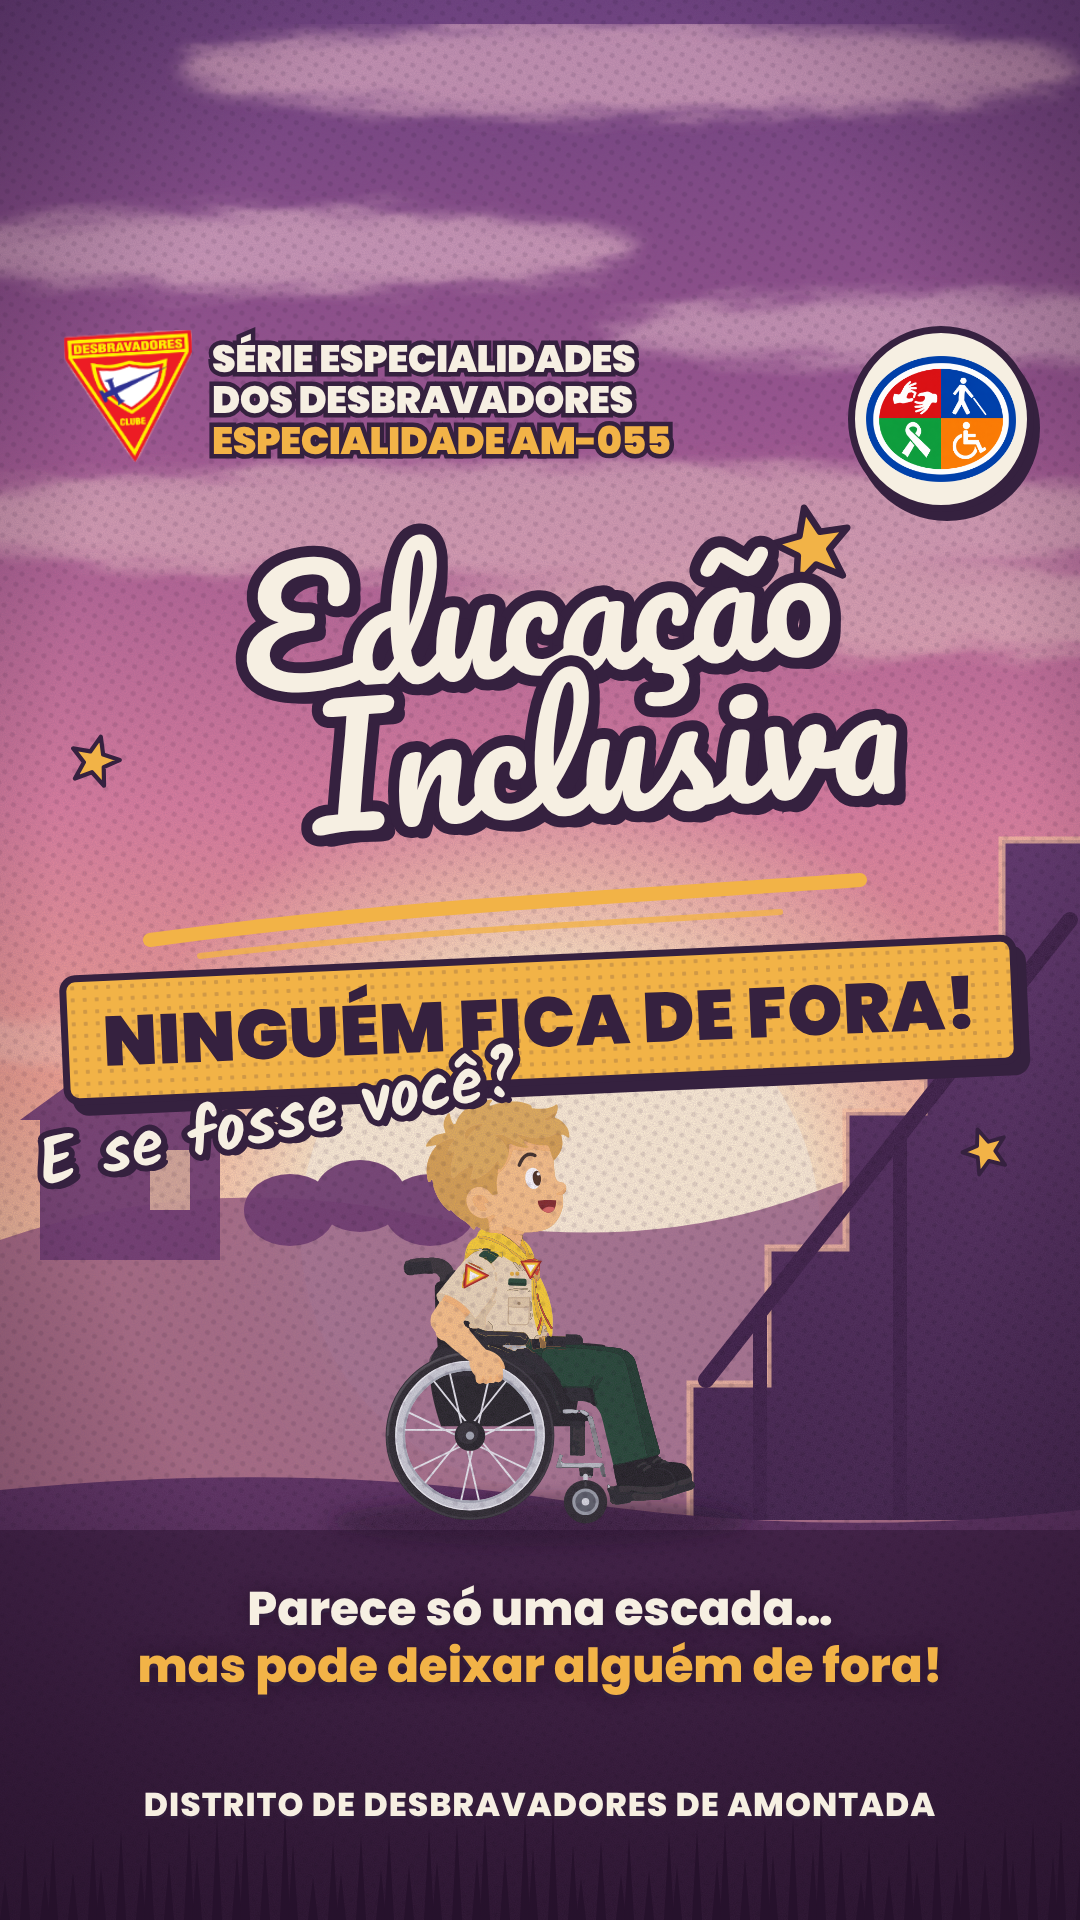
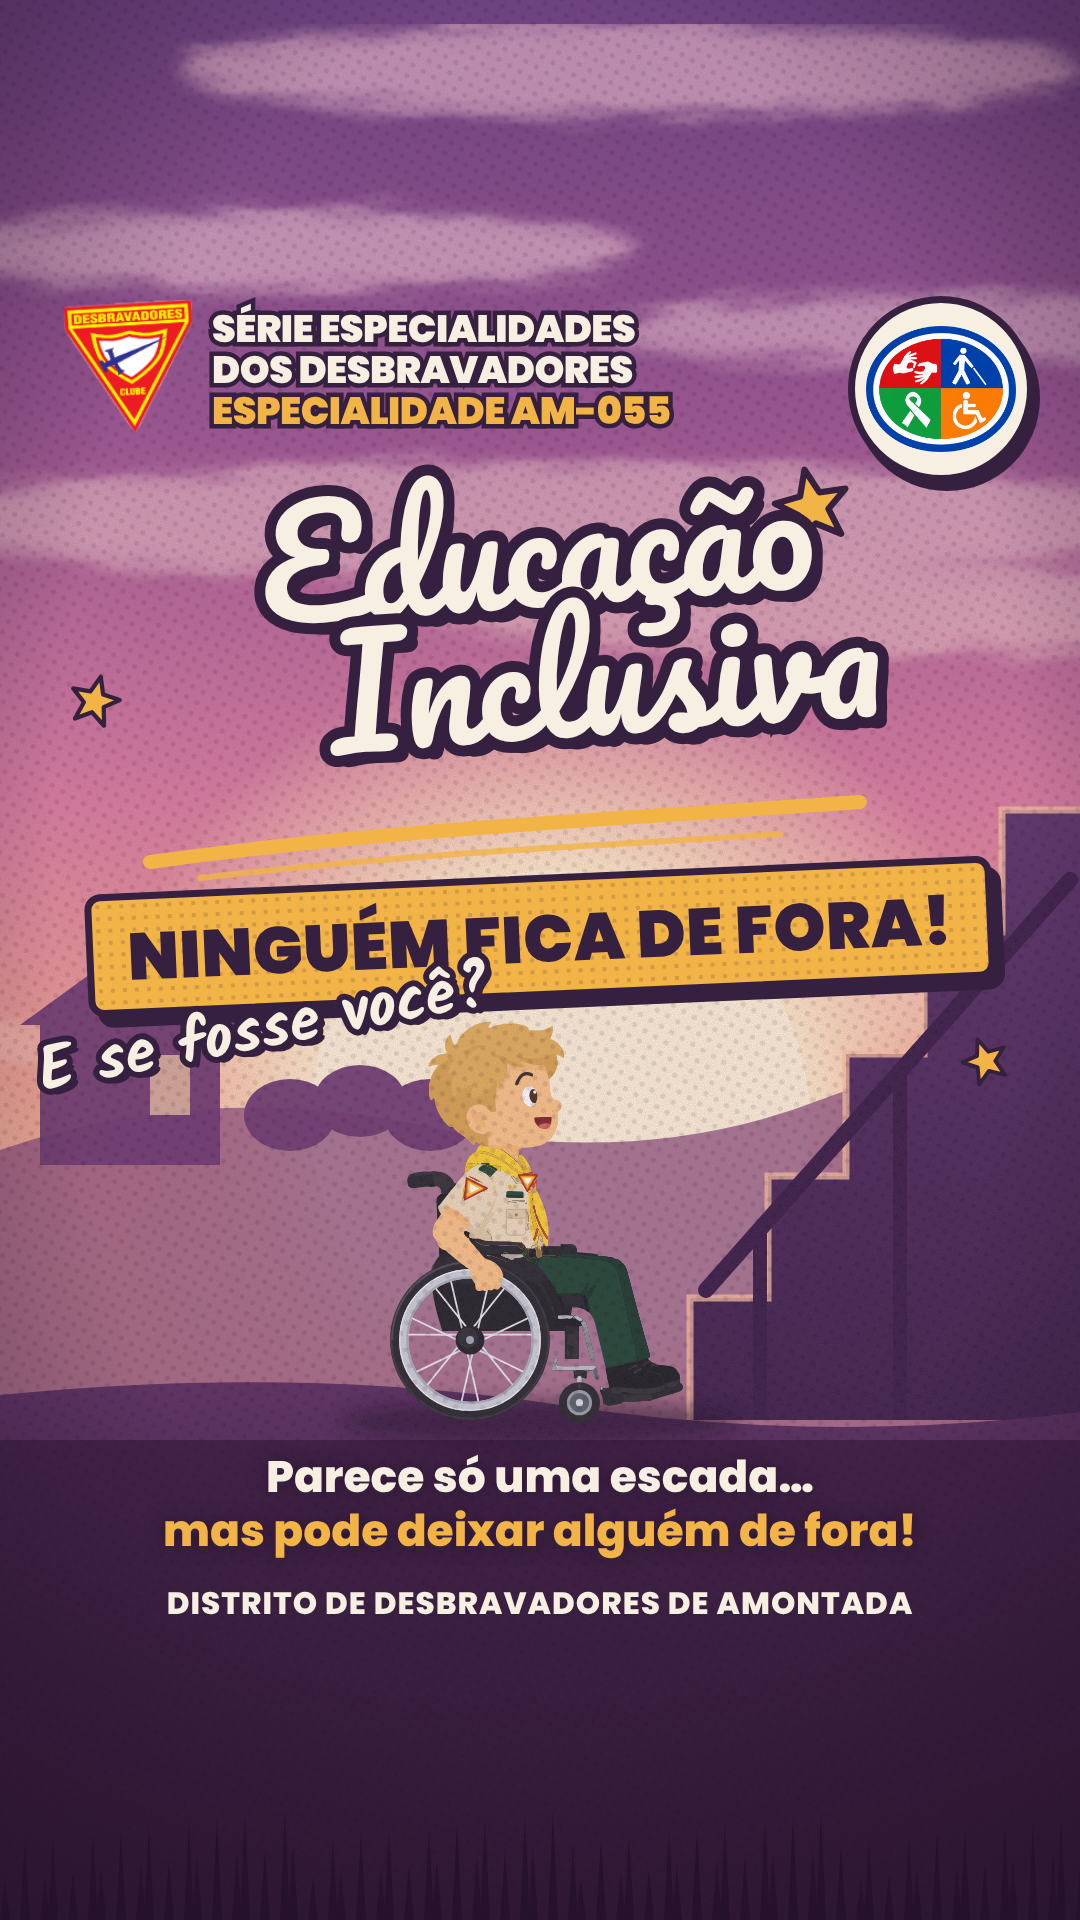
Capa do Instagram (Educação Inclusiva): essencial centralizado na faixa 4:5, recorte do perfil
Claude-Session: https://claude.ai/code/session_01LXZQHYtdrfPNenh7Cr42Jh

diff --git a/EDUCACAO_INCLUSIVA_WORK/remotion/src/full/CoverIG.tsx b/EDUCACAO_INCLUSIVA_WORK/remotion/src/full/CoverIG.tsx
@@ -67,29 +67,29 @@ export const CoverIG: React.FC = () => {
           {bands.map(([x, y, w, hh, c, o], i) => <ellipse key={i} cx={x + w / 2} cy={y} rx={w / 2} ry={hh} fill={c} opacity={o} filter="url(#soft)" />)}
         </g>
         {/* sol enorme atrás do herói */}
-        <circle cx={560} cy={1230} r={470} fill="url(#igsun)" />
-        <circle cx={560} cy={1230} r={260} fill="#FFF1D6" opacity={0.96} />
+        <circle cx={560} cy={1120} r={470} fill="url(#igsun)" />
+        <circle cx={560} cy={1120} r={250} fill="#FFF1D6" opacity={0.96} />
         {/* morros e a sede do clube ao longe */}
-        <path d="M0 1240 Q200 1170 420 1215 T820 1190 T1080 1210 L1080 1920 L0 1920 Z" fill="#8C4C78" opacity={0.75} />
-        <g fill="#6E3A6E" opacity={0.95}>
+        <path d="M0 1150 Q200 1080 420 1125 T820 1100 T1080 1120 L1080 1920 L0 1920 Z" fill="#8C4C78" opacity={0.75} />
+        <g fill="#6E3A6E" opacity={0.95} transform="translate(0 -95)">
           <path d="M40 1260 L40 1120 L20 1120 L130 1040 L240 1120 L220 1120 L220 1260 Z" />
           <rect x={150} y={1150} width={40} height={60} fill="#FFD9A8" opacity={0.7} />
           {[0, 1, 2].map((i) => <ellipse key={i} cx={290 + i * 70} cy={1210 - (i % 2) * 14} rx={46} ry={36} />)}
         </g>
         {/* a barreira: escada gigante em silhueta, atrás do herói */}
         {(() => {
-          const pts = Array.from({ length: 5 }, (_, i) => `L${690 + i * 78} ${1520 - (i + 1) * 136} L${690 + (i + 1) * 78} ${1520 - (i + 1) * 136}`).join(' ');
+          const pts = Array.from({ length: 5 }, (_, i) => `L${690 + i * 78} ${1420 - (i + 1) * 122} L${690 + (i + 1) * 78} ${1420 - (i + 1) * 122}`).join(' ');
           return <g>
-            <path d={`M690 1520 ${pts} L1080 840 L1080 1520 Z`} fill="url(#stairsil)" />
-            <path d={`M690 1520 ${pts} L1080 840`} fill="none" stroke="#FFC6A0" strokeWidth={7} opacity={0.75} />
-            <path d="M706 1380 L1070 920" stroke="#3A1E44" strokeWidth={16} strokeLinecap="round" /><path d="M760 1520 L760 1310 M900 1520 L900 1135" stroke="#3A1E44" strokeWidth={14} />
+            <path d={`M690 1420 ${pts} L1080 810 L1080 1420 Z`} fill="url(#stairsil)" />
+            <path d={`M690 1420 ${pts} L1080 810`} fill="none" stroke="#FFC6A0" strokeWidth={7} opacity={0.75} />
+            <path d="M706 1290 L1070 880" stroke="#3A1E44" strokeWidth={16} strokeLinecap="round" /><path d="M760 1420 L760 1225 M900 1420 L900 1065" stroke="#3A1E44" strokeWidth={14} />
           </g>;
         })()}
         {/* chão */}
-        <path d="M0 1490 Q300 1460 560 1500 T1080 1510 L1080 1920 L0 1920 Z" fill="url(#igground)" />
+        <path d="M0 1395 Q300 1365 560 1405 T1080 1412 L1080 1920 L0 1920 Z" fill="url(#igground)" />
         {/* herói: Theo diante da barreira */}
-        <ellipse cx={540} cy={1522} rx={210} ry={24} fill="#1E0D22" opacity={0.5} filter="url(#soft)" />
-        <Theo pose={theoRoll(t, () => 470, { scale: 0.38, y: 1520, ex: exT, head: -9 })} id="igt" />
+        <ellipse cx={540} cy={1422} rx={200} ry={22} fill="#1E0D22" opacity={0.5} filter="url(#soft)" />
+        <Theo pose={theoRoll(t, () => 470, { scale: 0.36, y: 1420, ex: exT, head: -9 })} id="igt" />
         {/* retícula e granulação por cima de tudo, como na referência */}
         <rect width={1080} height={1920} fill="url(#dots)" opacity={0.12} style={{ mixBlendMode: 'multiply' }} />
         <rect width={1080} height={1920} filter="url(#grain)" opacity={0.5} />
@@ -99,44 +99,44 @@ export const CoverIG: React.FC = () => {
         </g>
         {/* vinheta */}
         <rect width={1080} height={1920} fill="url(#vig)" />
-        <rect y={1530} width={1080} height={390} fill="#2A1430" opacity={0.5} />
+        <rect y={1440} width={1080} height={480} fill="#2A1430" opacity={0.5} />
       </svg>
 
       {/* cabeçalho: logo do clube + série + código; selo da especialidade */}
-      <Img src={staticFile('logo_desbravadores.png')} style={{ position: 'absolute', left: 64, top: 330, width: 128, height: 132 }} />
-      <div style={{ position: 'absolute', left: 212, top: 338, fontFamily: 'Poppins', fontWeight: 900, fontSize: 38, lineHeight: 1.08, color: CREAM, ...outline(9), letterSpacing: -0.5 }}>
+      <Img src={staticFile('logo_desbravadores.png')} style={{ position: 'absolute', left: 64, top: 300, width: 128, height: 132 }} />
+      <div style={{ position: 'absolute', left: 212, top: 308, fontFamily: 'Poppins', fontWeight: 900, fontSize: 38, lineHeight: 1.08, color: CREAM, ...outline(9), letterSpacing: -0.5 }}>
         SÉRIE ESPECIALIDADES<br />DOS DESBRAVADORES<br /><span style={{ color: GOLD }}>ESPECIALIDADE AM-055</span>
       </div>
-      <div style={{ position: 'absolute', left: 848, top: 326, width: 186, height: 186, borderRadius: 93, background: CREAM, border: `7px solid ${INK}`, boxShadow: `6px 9px 0 ${INK}`, display: 'flex', alignItems: 'center', justifyContent: 'center' }}>
+      <div style={{ position: 'absolute', left: 848, top: 296, width: 186, height: 186, borderRadius: 93, background: CREAM, border: `7px solid ${INK}`, boxShadow: `6px 9px 0 ${INK}`, display: 'flex', alignItems: 'center', justifyContent: 'center' }}>
         <Img src={staticFile('emblema_recortado.png')} style={{ width: 150, height: 130, objectFit: 'contain' }} />
       </div>
-      <Star x={812} y={545} s={0.95} r={-12} />
-      <Star x={95} y={760} s={0.6} r={14} />
-      <Star x={985} y={1150} s={0.55} r={-20} />
+      <Star x={812} y={505} s={0.9} r={-12} />
+      <Star x={95} y={700} s={0.6} r={14} />
+      <Star x={985} y={1060} s={0.55} r={-20} />
 
       {/* título manuscrito */}
-      <div style={{ position: 'absolute', left: 0, right: 0, top: 520, textAlign: 'center', transform: 'rotate(-4deg)' }}>
-        <div style={{ fontFamily: 'Script', fontSize: 158, lineHeight: 1.12, color: CREAM, ...outline(22), textShadow: `10px 12px 0 ${INK}` }}>Educação</div>
-        <div style={{ fontFamily: 'Script', fontSize: 158, lineHeight: 1.0, color: CREAM, ...outline(22), textShadow: `10px 12px 0 ${INK}`, marginTop: -26, marginLeft: 120 }}>Inclusiva</div>
+      <div style={{ position: 'absolute', left: 0, right: 0, top: 462, textAlign: 'center', transform: 'rotate(-4deg)' }}>
+        <div style={{ fontFamily: 'Script', fontSize: 148, lineHeight: 1.12, color: CREAM, ...outline(22), textShadow: `10px 12px 0 ${INK}` }}>Educação</div>
+        <div style={{ fontFamily: 'Script', fontSize: 148, lineHeight: 1.0, color: CREAM, ...outline(22), textShadow: `10px 12px 0 ${INK}`, marginTop: -26, marginLeft: 120 }}>Inclusiva</div>
       </div>
       {/* pincelada sob o título */}
       <svg width={1080} height={1920} style={{ position: 'absolute', inset: 0 }}>
-        <path d="M150 940 C380 908 600 898 860 880" stroke={GOLD} strokeWidth={14} strokeLinecap="round" fill="none" />
-        <path d="M200 956 C420 930 600 924 780 912" stroke={GOLD} strokeWidth={6} strokeLinecap="round" fill="none" opacity={0.8} />
+        <path d="M150 862 C380 830 600 820 860 802" stroke={GOLD} strokeWidth={14} strokeLinecap="round" fill="none" />
+        <path d="M200 878 C420 852 600 846 780 834" stroke={GOLD} strokeWidth={6} strokeLinecap="round" fill="none" opacity={0.8} />
       </svg>
       {/* faixa amarela */}
-      <div style={{ position: 'absolute', left: 40, right: 40, top: 955, transform: 'rotate(-2.5deg)', display: 'flex', justifyContent: 'center' }}>
-        <div style={{ position: 'relative', fontFamily: 'Poppins', fontWeight: 900, fontSize: 70, letterSpacing: 0.5, color: INK, background: GOLD, padding: '8px 34px 2px', border: `7px solid ${INK}`, borderRadius: 16, boxShadow: `9px 11px 0 ${INK}`,
+      <div style={{ position: 'absolute', left: 40, right: 40, top: 875, transform: 'rotate(-2.5deg)', display: 'flex', justifyContent: 'center' }}>
+        <div style={{ position: 'relative', fontFamily: 'Poppins', fontWeight: 900, fontSize: 66, letterSpacing: 0.5, color: INK, background: GOLD, padding: '8px 34px 2px', border: `7px solid ${INK}`, borderRadius: 16, boxShadow: `9px 11px 0 ${INK}`,
           backgroundImage: 'radial-gradient(rgba(53,33,63,.18) 2px, transparent 2.5px)', backgroundSize: '12px 12px' }}>NINGUÉM FICA DE FORA!</div>
       </div>
       {/* exclamação manuscrita */}
-      <div style={{ position: 'absolute', left: 36, top: 1070, transform: 'rotate(-11deg)', fontFamily: 'Hand', fontSize: 66, color: CREAM, ...outline(12), textShadow: `6px 7px 0 ${INK}` }}>E se fosse você?</div>
+      <div style={{ position: 'absolute', left: 36, top: 982, transform: 'rotate(-11deg)', fontFamily: 'Hand', fontSize: 62, color: CREAM, ...outline(12), textShadow: `6px 7px 0 ${INK}` }}>E se fosse você?</div>
 
       {/* chamada */}
-      <div style={{ position: 'absolute', left: 30, right: 30, top: 1580, textAlign: 'center', fontFamily: 'Poppins', fontWeight: 800, fontSize: 47, lineHeight: 1.22, color: CREAM, textShadow: `0 4px 0 ${INK}, 0 0 18px rgba(30,13,34,.6)` }}>
+      <div style={{ position: 'absolute', left: 30, right: 30, top: 1450, textAlign: 'center', fontFamily: 'Poppins', fontWeight: 800, fontSize: 44, lineHeight: 1.22, color: CREAM, textShadow: `0 4px 0 ${INK}, 0 0 18px rgba(30,13,34,.6)` }}>
         Parece só uma escada…<br /><span style={{ color: GOLD }}>mas pode deixar alguém de fora!</span>
       </div>
-      <div style={{ position: 'absolute', left: 0, right: 0, top: 1780, textAlign: 'center', fontFamily: 'Poppins', fontWeight: 800, fontSize: 33, letterSpacing: 1, color: CREAM, textShadow: `0 3px 0 ${INK}` }}>DISTRITO DE DESBRAVADORES DE AMONTADA</div>
+      <div style={{ position: 'absolute', left: 0, right: 0, top: 1580, textAlign: 'center', fontFamily: 'Poppins', fontWeight: 800, fontSize: 31, letterSpacing: 1, color: CREAM, textShadow: `0 3px 0 ${INK}` }}>DISTRITO DE DESBRAVADORES DE AMONTADA</div>
     </AbsoluteFill>
   );
 };
